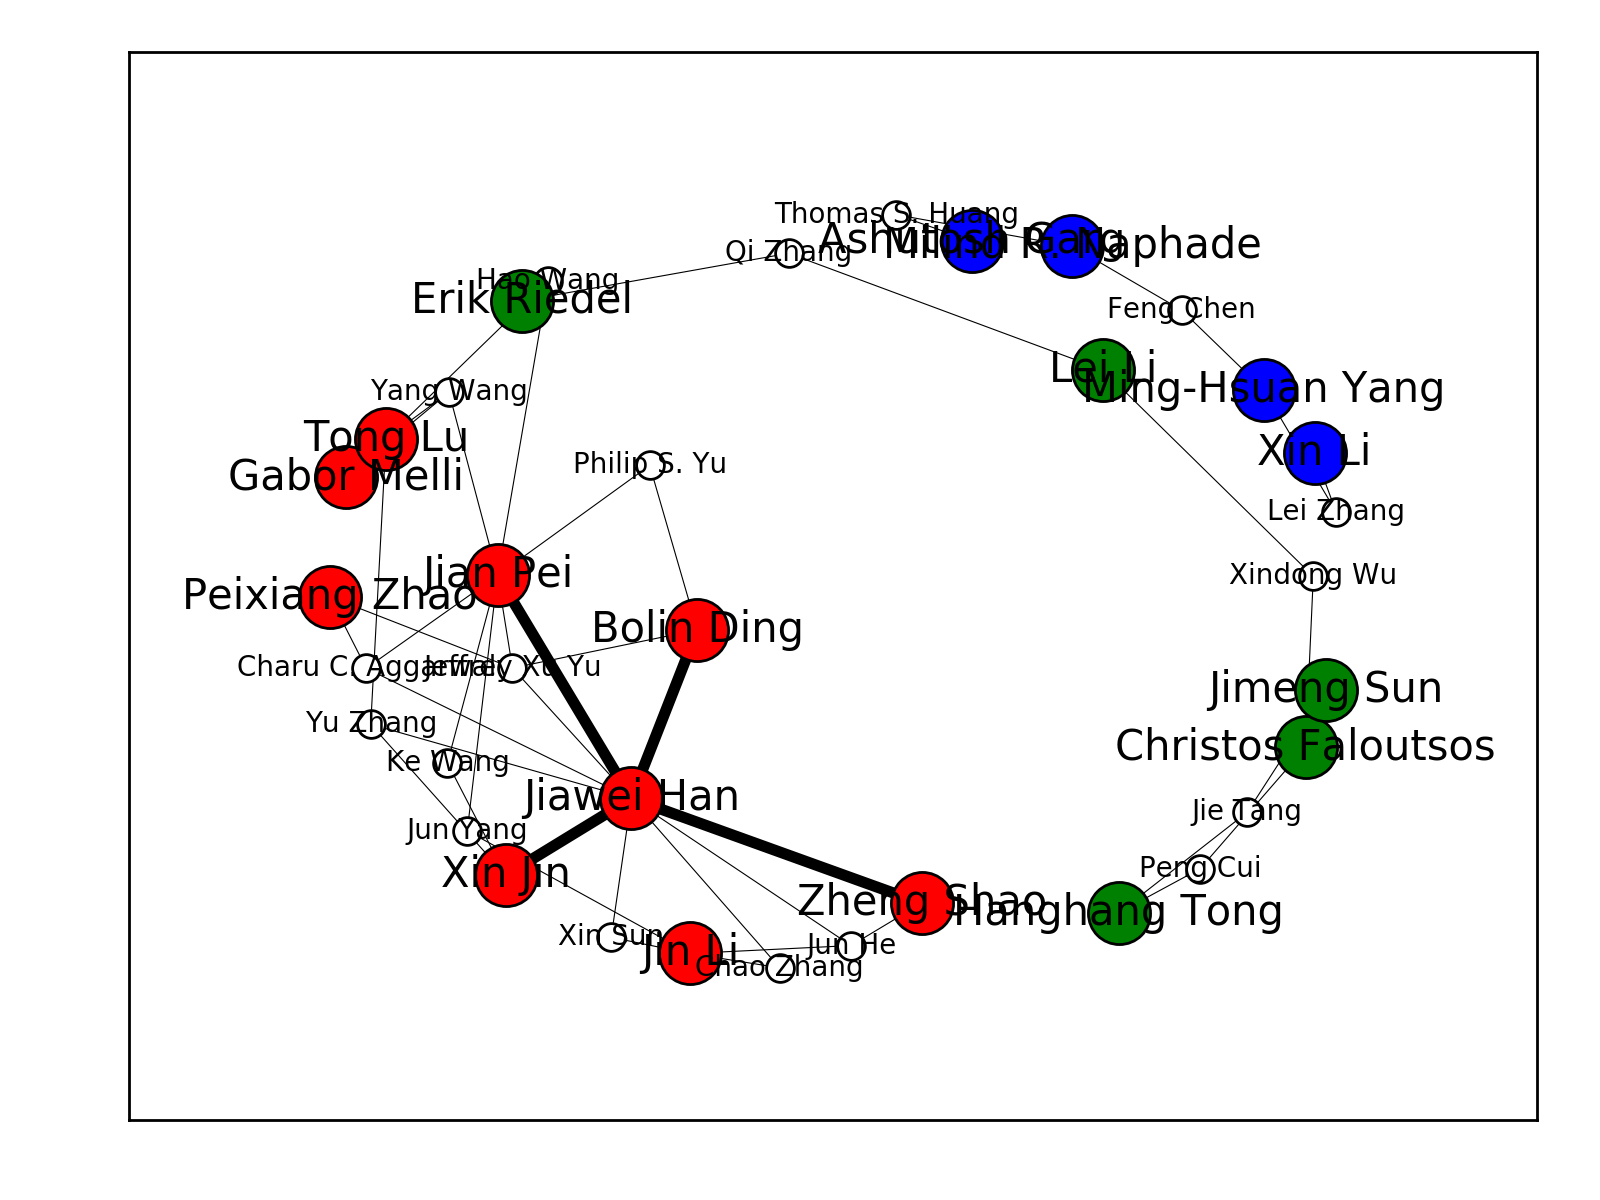
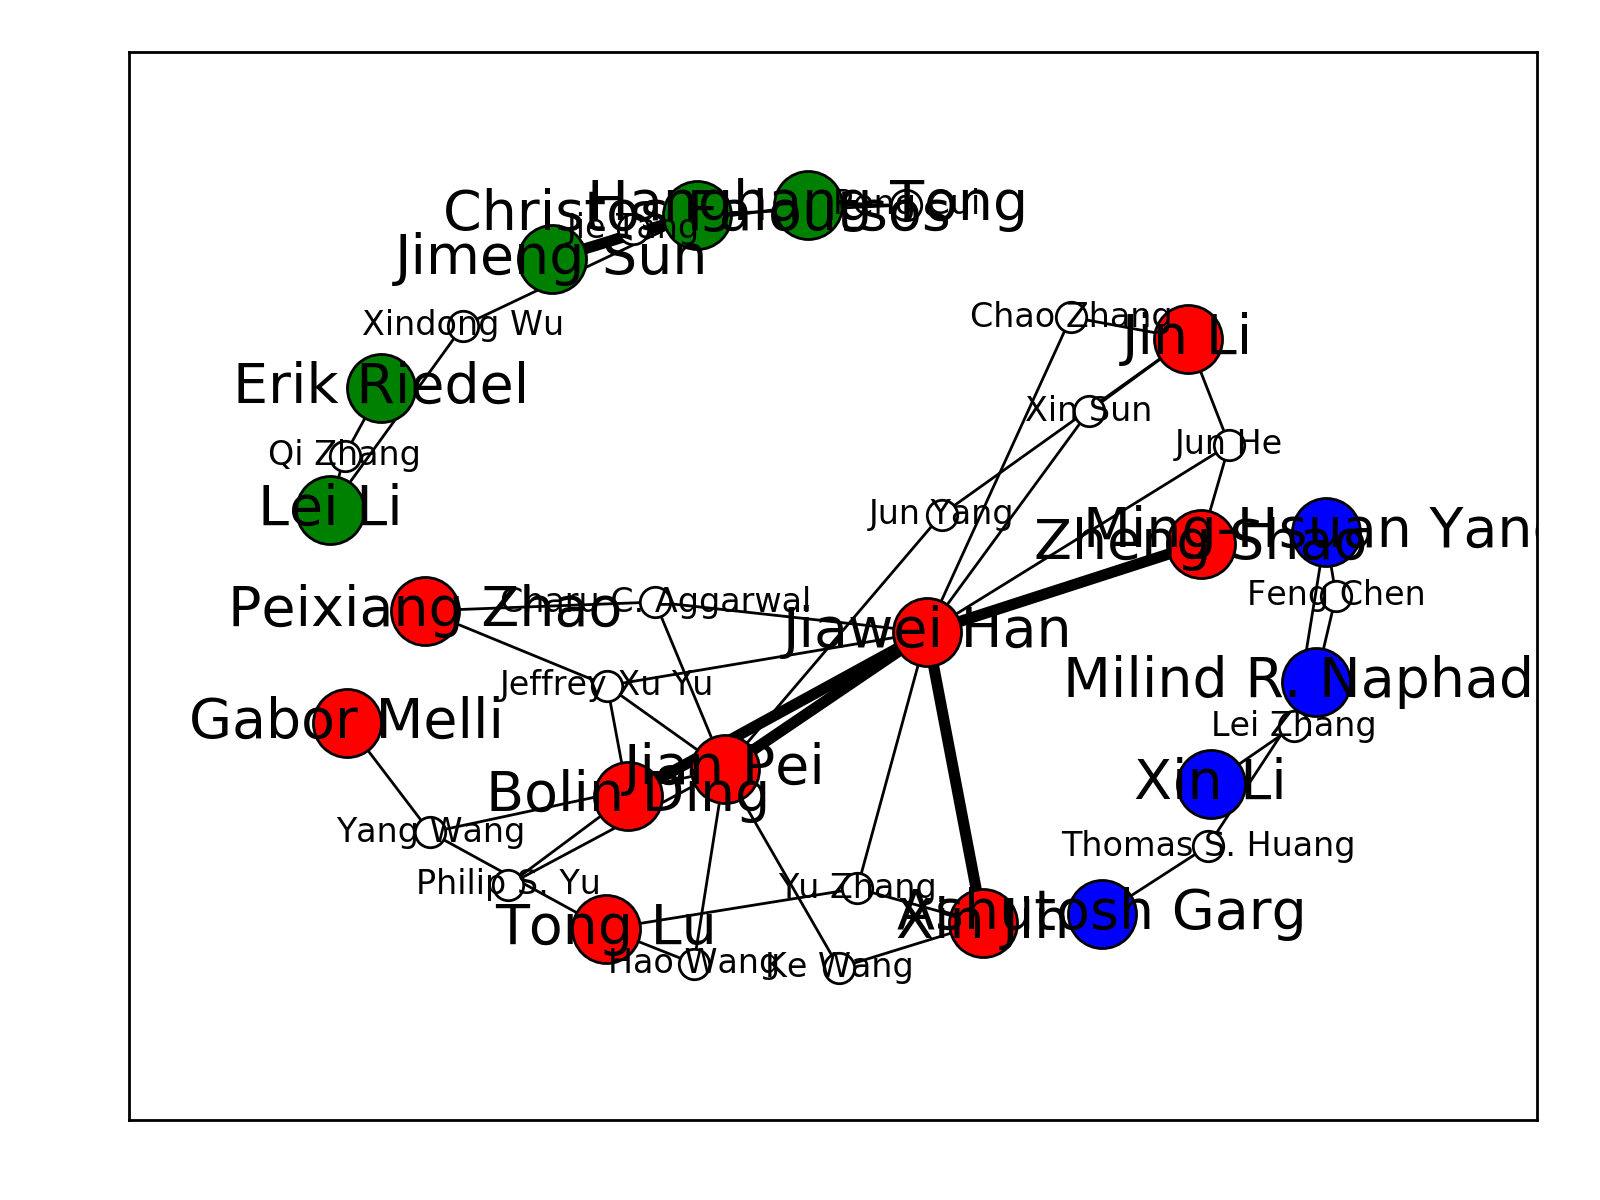
plot4

Changed region(s): [[0.0938, 0.1233, 0.9688, 0.8325], [0.3438, 0.37, 0.4688, 0.4008]]

diff --git a/plot4.py b/plot4.py
@@ -17,21 +17,22 @@ def plot(nodes, edges, group, suffix):
 	G.add_edges_from(edges)
 	pos = nx.spring_layout(G)
 
-	nx.draw_networkx_nodes(G, pos, nodelist=[node for node in nodes if node not in group], node_color='w', node_size=100)
+	nx.draw_networkx_nodes(G, pos, nodelist=[node for node in nodes if node not in group], node_color='w', node_size=120)
 	for g_id, color in colors:
 		nx.draw_networkx_nodes(G, pos, nodelist=[node for node in nodes if node in group and group[node] == g_id],
-		                       node_color=color, node_size=500)
+		                       node_color=color, node_size=600)
 	nx.draw_networkx_edges(G, pos,
 	                       edgelist=[edge for edge in edges if edge[0] in graph.author_labels and edge[1] in graph.author_labels], width=4.0)
 	nx.draw_networkx_edges(G, pos,
-	                       edgelist=[edge for edge in edges if edge[0] not in graph.author_labels or edge[1] not in graph.author_labels], width=0.4)
-	nx.draw_networkx_labels(G, pos, labels={node: node for node in nodes if node in graph.author_labels}, font_size=15)
-	nx.draw_networkx_labels(G, pos, labels={node: node for node in nodes if node not in graph.author_labels}, font_size=10)
+	                       edgelist=[edge for edge in edges if edge[0] not in graph.author_labels or edge[1] not in graph.author_labels], width=1.0)
+	nx.draw_networkx_labels(G, pos, labels={node: node for node in nodes if node in graph.author_labels}, font_size=20)
+	nx.draw_networkx_labels(G, pos, labels={node: node for node in nodes if node not in graph.author_labels}, font_size=12)
 	plt.tight_layout()
 	axis = plt.gca()
 	axis.axes.get_xaxis().set_visible(False)
 	axis.axes.get_yaxis().set_visible(False)
-	plt.savefig(cwd + suffix + '.png', dpi=200)
+	plt.savefig(output_directory + suffix + '.png', dpi=200)
+	plt.close()
 
 
 
@@ -173,10 +174,12 @@ class Network(object):
 
 if __name__ == '__main__':
 	cwd = 'data/'
+	output_directory = 'plot/'
 	graph = Network()
 	baseline_authors, baseline_links = graph.baseline()
-	# plot(baseline_authors, baseline_links, graph.author_labels, 'baseline')
+	# plot(baseline_authors, baseline_links, graph.author_labels, args.plot_path)
 	authors1, links1 = graph.rl1(baseline_authors, baseline_links)
-	plot(authors1, links1, graph.author_labels, 'rl1')
-	# authors2, links2 = graph.rl2(baseline_authors, baseline_links)
-	# plot(authors2, links2, graph.author_labels, 'rl2')
+	authors2, links2 = graph.rl2(baseline_authors, baseline_links)
+	for i in range(50):
+		plot(authors1, links1, graph.author_labels, 'rl1.' + str(i))
+		# plot(authors2, links2, graph.author_labels, 'rl2.' + str(i))

diff --git a/config.py b/config.py
@@ -4,6 +4,7 @@ import os
 
 def parse_args():
 	parser = argparse.ArgumentParser()
+	parser.add_argument('--plot_path', type=str, default=None, help=None)
 	parser.add_argument('--num_exp', type=int, default=1, help=None)
 	parser.add_argument('--device_id', type=int, default=4, help=None)
 	parser.add_argument('--debug', type=bool, default=False, help=None)
